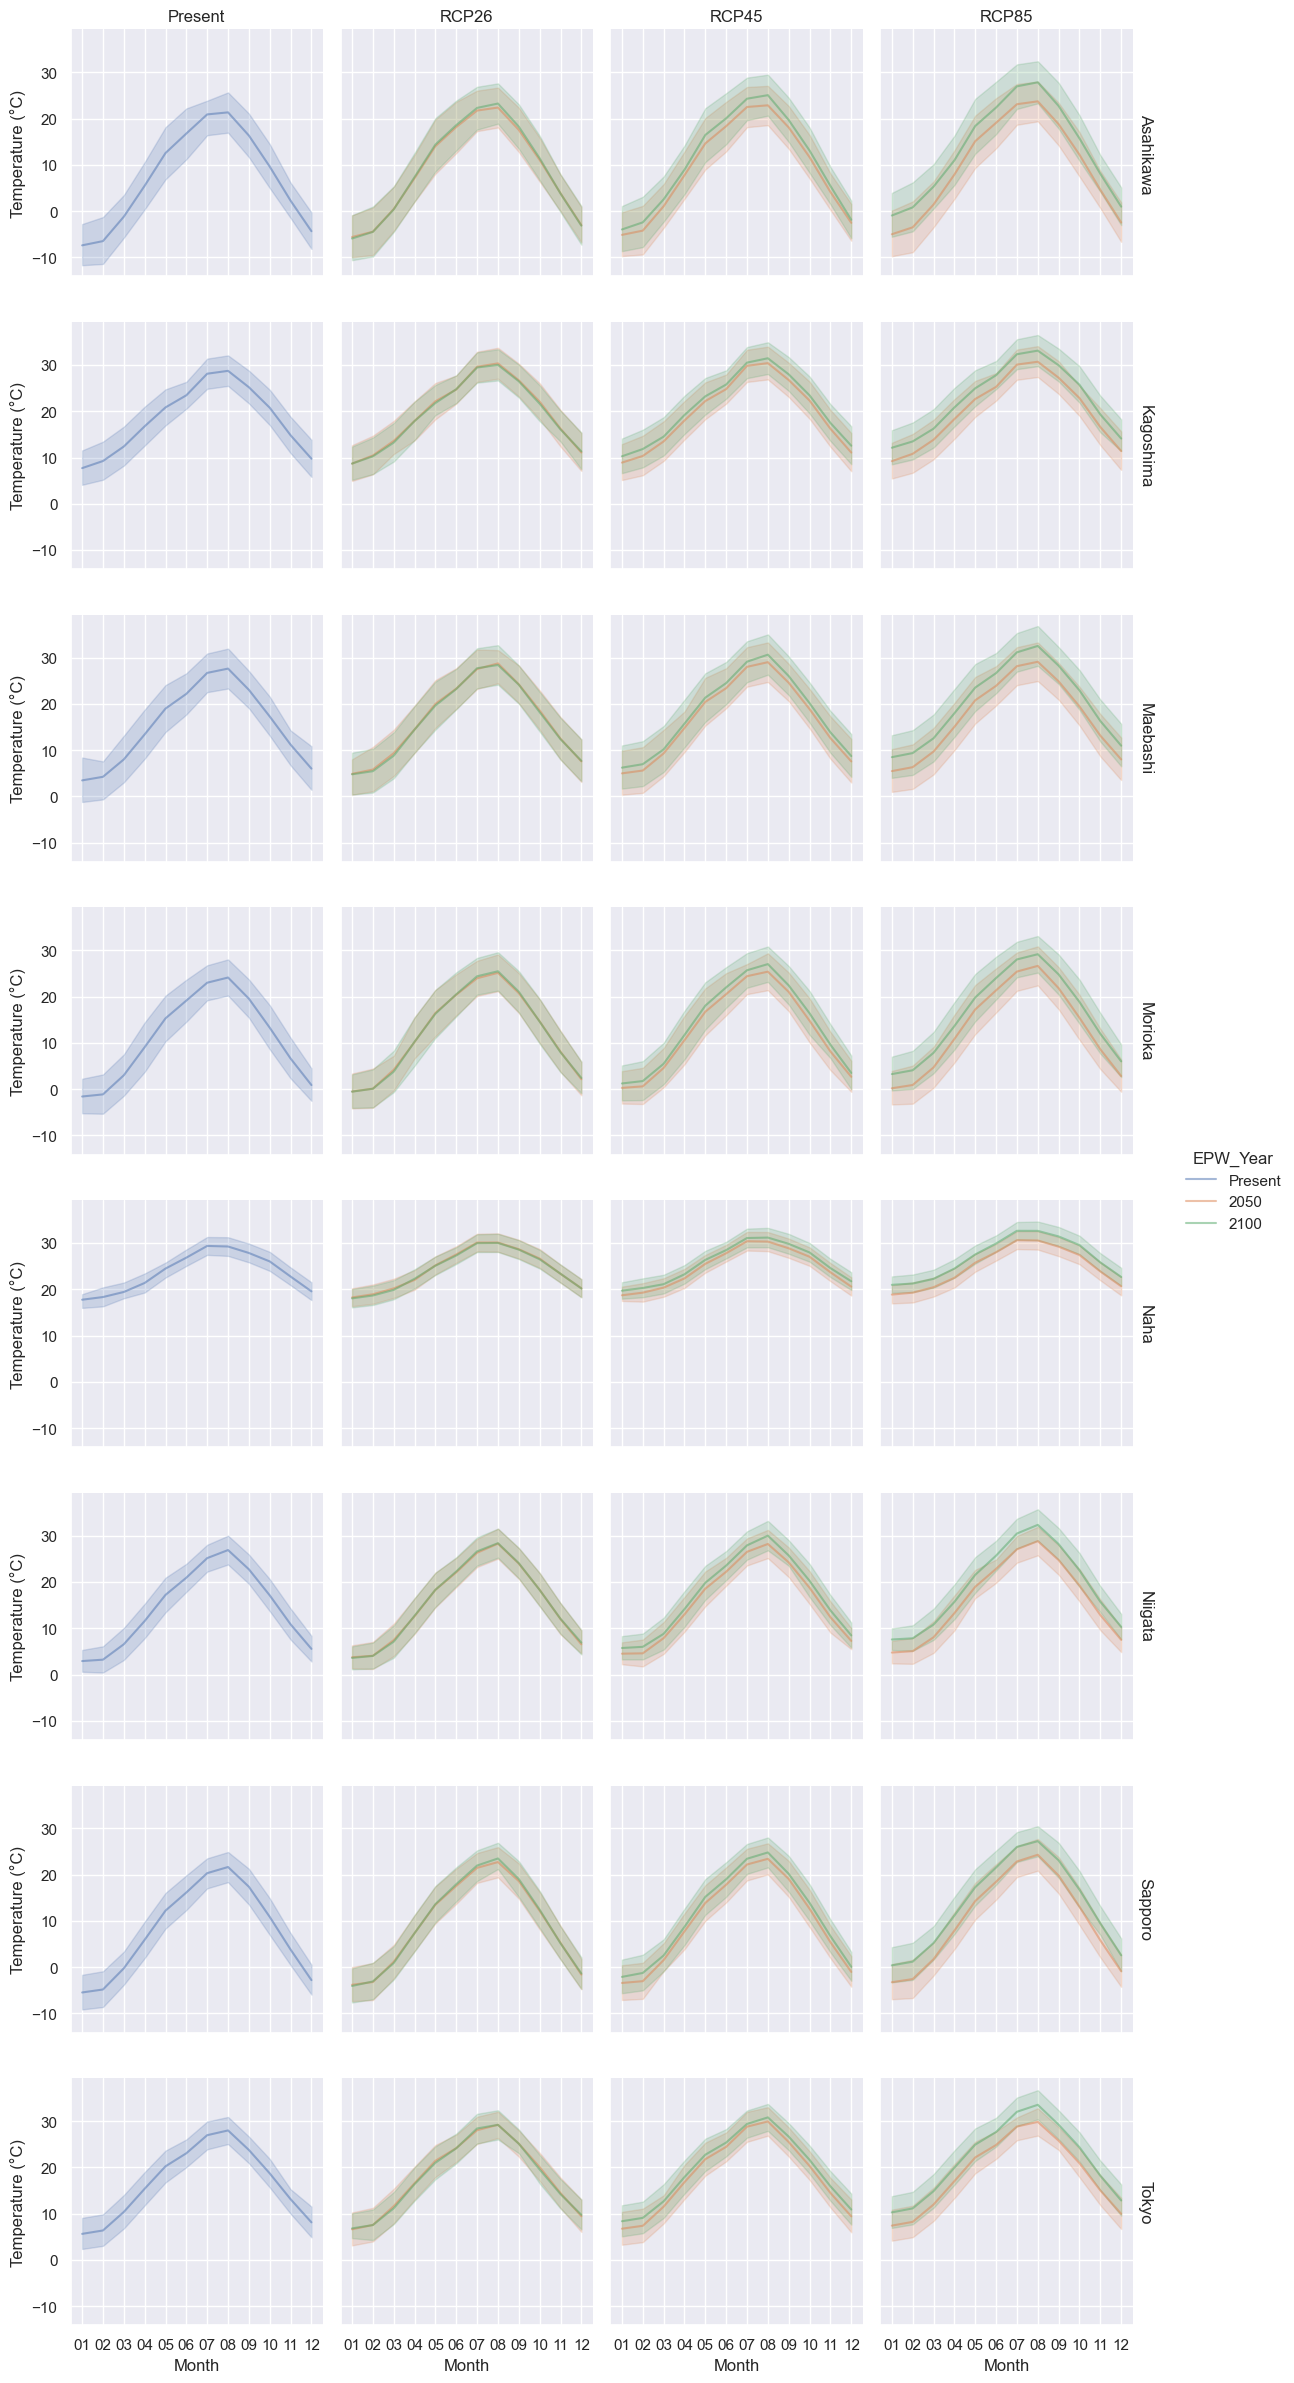
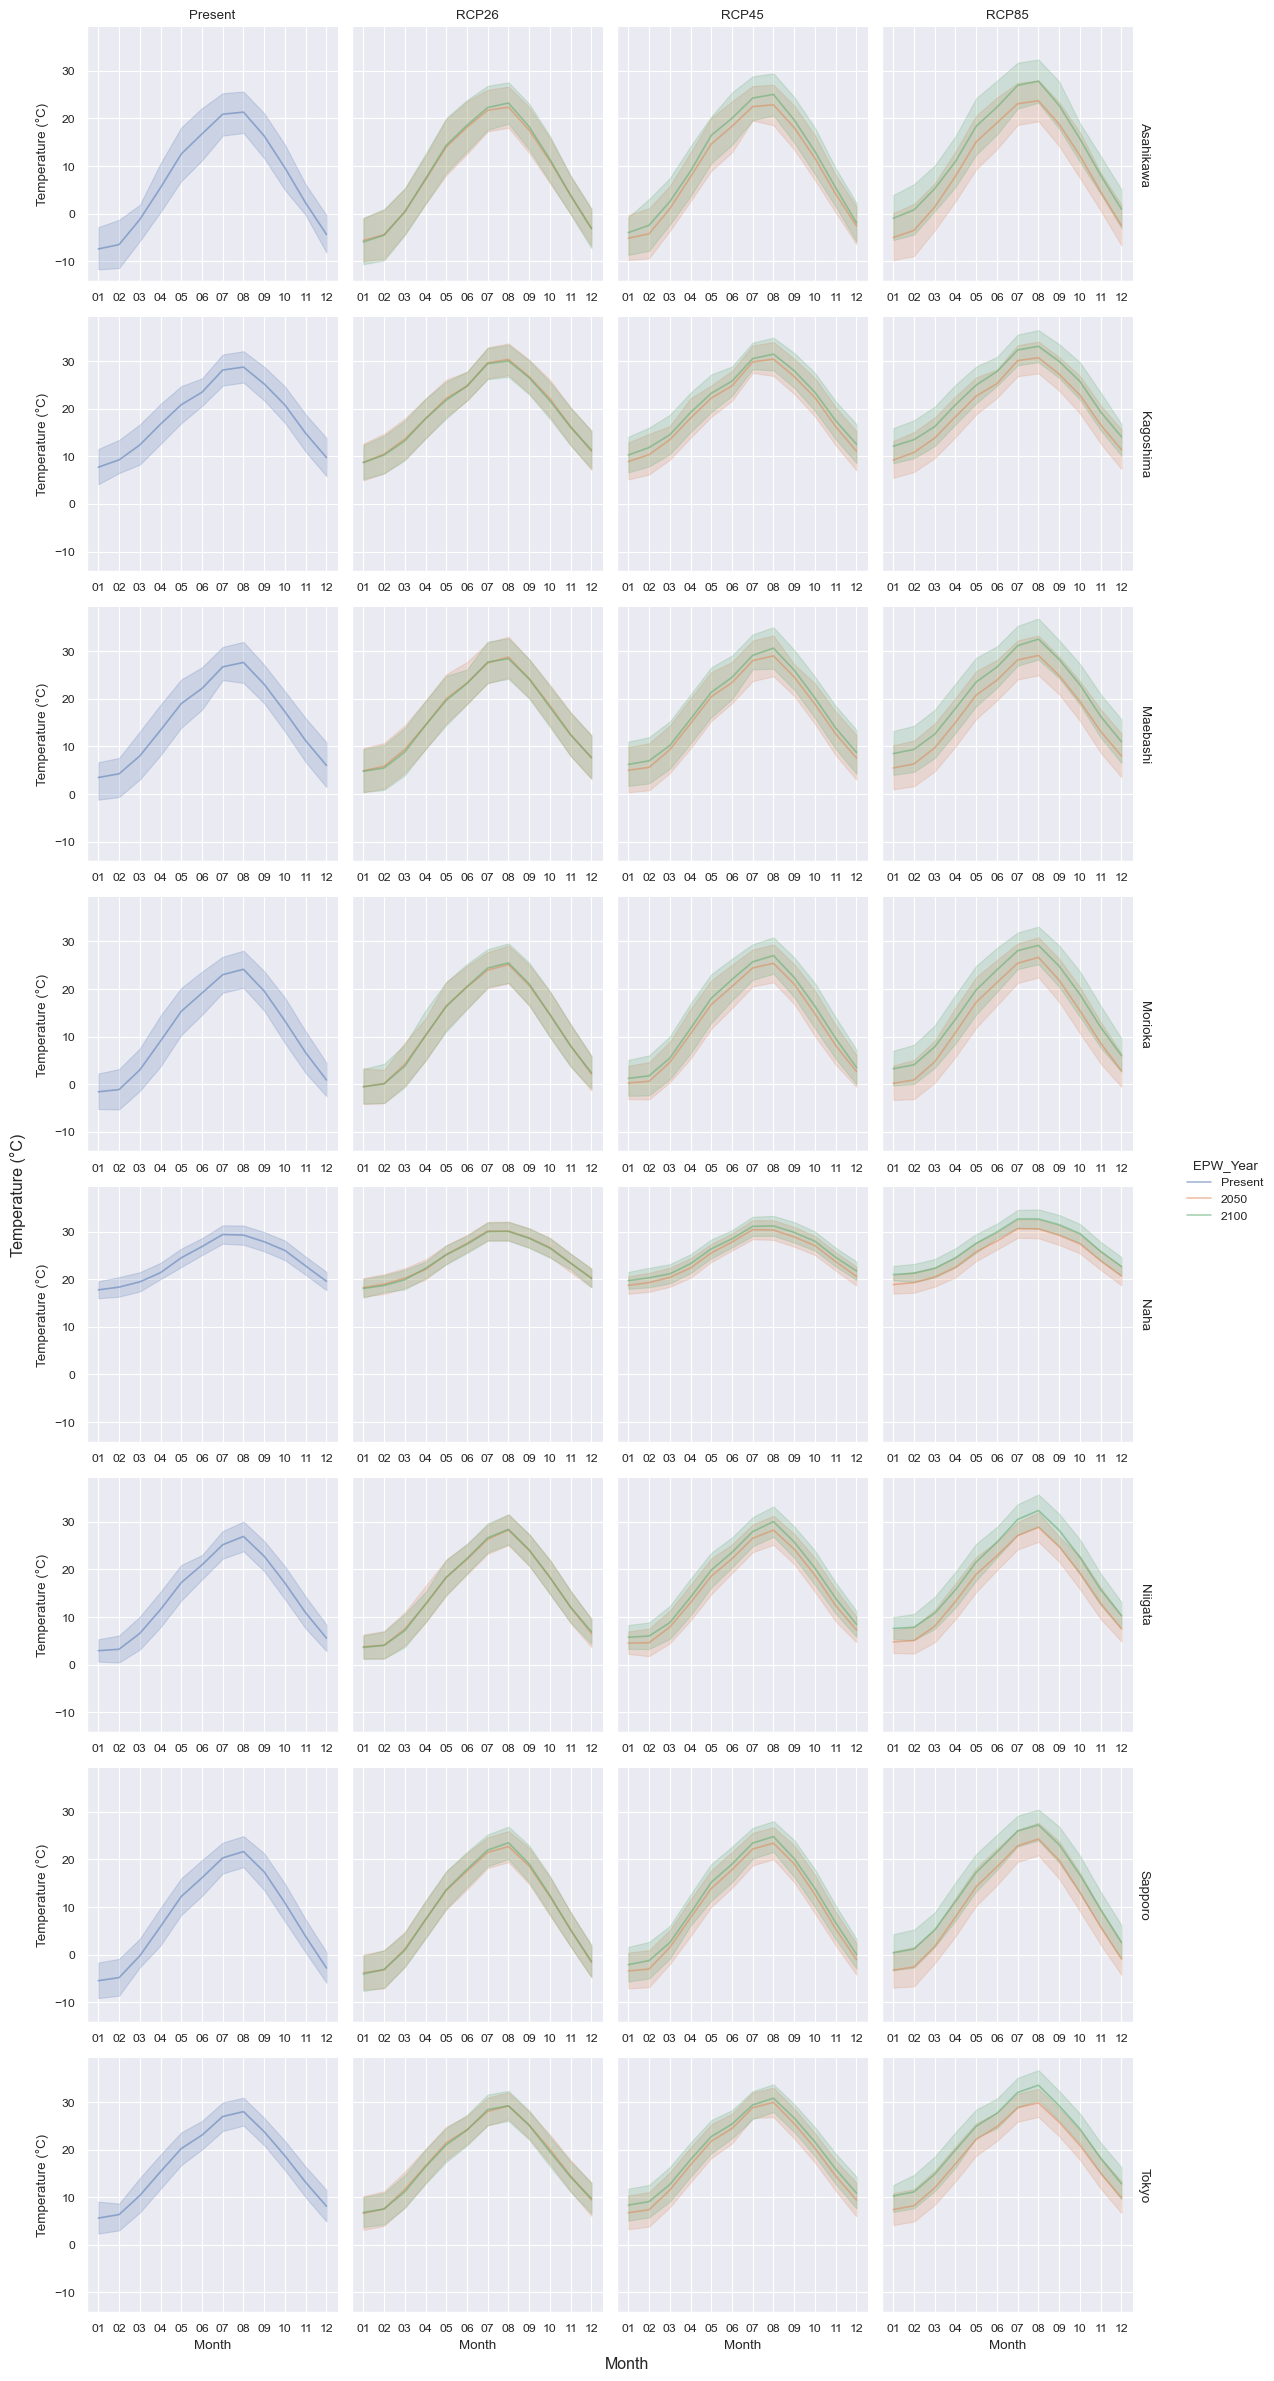
data WIP

diff --git a/outdoor_temp_figure.py b/outdoor_temp_figure.py
@@ -139,18 +139,21 @@ import matplotlib.pyplot as plt
 
 sns.set_theme()
 sns.set_style("darkgrid")
-height = 2.5
+sns.set_context('paper')
+
+height = 1.25
+aspect = 1.65
 temp_plot = sns.FacetGrid(
     df_for_graph_monthly_site,
     col='EPW_Scenario',
     row='EPW_City_or_subcountry',
     hue='EPW_Year',
-    sharex=True,
+    sharex=False,
     sharey=True,
     margin_titles=True,
     legend_out=True,
-    # height=height,
-    # aspect=0.5
+    height=height,
+    aspect=aspect
               )
 
 temp_plot.map_dataframe(
@@ -167,15 +170,32 @@ temp_plot.map_dataframe(
     # style='mean_max_or_min',
     legend='full',
 )
-temp_plot.set_ylabels('Temperature (°C)')
+
+plt.subplots_adjust(hspace=0.01, wspace=0.01)
+
+# temp_plot.set_ylabels('Temperature (°C)')
+# temp_plot.set_ylabels('')
+# temp_plot.set_xlabels('')
+
+# temp_plot.fig.axis.xaxis.set_visible(False)
+# temp_plot.fig.axes.yaxis.set_visible(False)
+temp_plot.set(xlabel=None, ylabel=None)
+
 temp_plot.set_titles(col_template='{col_name}', row_template='{row_name}')
+
+temp_plot.fig.supxlabel('Month')
+temp_plot.fig.supylabel('Temperature (°C)')
+
+
+temp_plot.fig.tight_layout()
+
 temp_plot.add_legend()
 
 # temp_plot.supylabel('whatever')
 
-# temp_plot.savefig(f'temp_x_height_{height}.png')
-temp_plot.savefig(f'temp_x_height_default.png')
-
+temp_plot.savefig(f'temp_x_height_{height}_aspect_{aspect}.png')
+# temp_plot.savefig(f'temp_x_height_default.png')
+# temp_plot.savefig(f'temp_x_height_default_v00.png')
 
 
 
